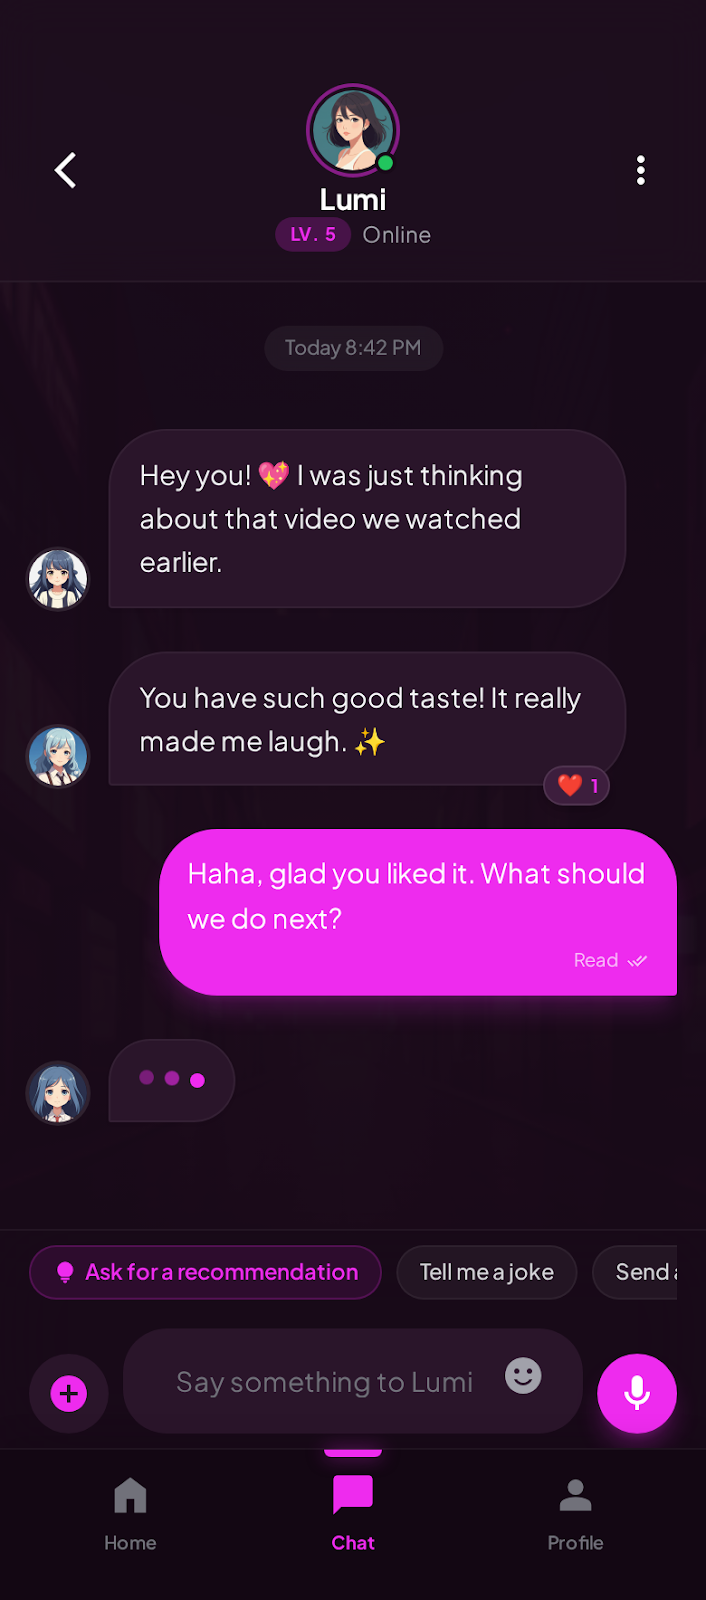
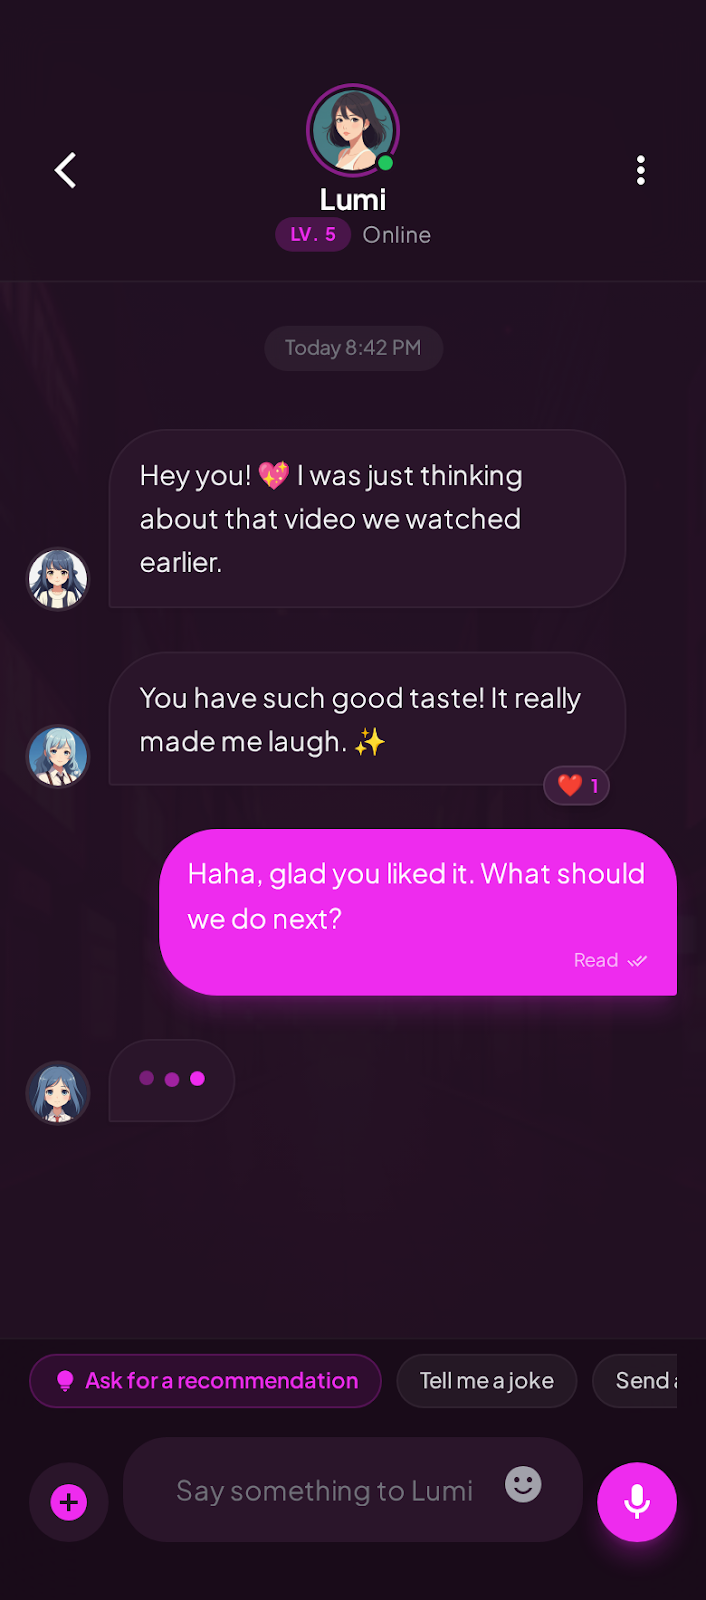
design update

diff --git a/design/lumi_session_page/code.html b/design/lumi_session_page/code.html
@@ -18,7 +18,7 @@
                         "primary": "#ee2bee",
                         "primary-dark": "#b01bb0",
                         "background-light": "#f8f6f8",
-                        "background-dark": "#180a18",
+                        "background-dark": "#221022",
                         "surface-dark": "#2a152a",
                         "surface-light": "#ffffff",
                     },
@@ -28,7 +28,7 @@
                     },
                     borderRadius: {"DEFAULT": "0.5rem", "lg": "1rem", "xl": "1.5rem", "2xl": "2rem", "full": "9999px"},
                     backgroundImage: {
-                        'chat-gradient': 'linear-gradient(to bottom, rgba(24, 10, 24, 0.8), rgba(24, 10, 24, 0.95))',
+                        'chat-gradient': 'linear-gradient(to bottom, rgba(34, 16, 34, 0.8), rgba(34, 16, 34, 0.95))',
                     }
                 },
             },
@@ -50,6 +50,11 @@
       min-height: max(884px, 100dvh);
     }
     </style>
+<style>
+    body {
+      min-height: max(884px, 100dvh);
+    }
+  </style>
 <style>
     body {
       min-height: max(884px, 100dvh);
@@ -138,7 +143,7 @@
 </div>
 <div class="h-48"></div>
 </main>
-<footer class="fixed bottom-[84px] left-0 w-full z-20 bg-white/80 dark:bg-[#180a18]/90 backdrop-blur-xl border-t border-zinc-200 dark:border-white/5 pb-2 pt-2 px-4 transition-all">
+<footer class="fixed bottom-0 left-0 w-full z-20 bg-white/80 dark:bg-[#180a18]/90 backdrop-blur-xl border-t border-zinc-200 dark:border-white/5 pb-8 pt-2 px-4 transition-all">
 <div class="flex gap-2 mb-3 overflow-x-auto no-scrollbar pb-1">
 <button class="shrink-0 px-3 py-1.5 bg-primary/10 hover:bg-primary/20 border border-primary/20 rounded-full text-xs font-semibold text-primary transition-colors flex items-center gap-1">
 <span class="material-symbols-outlined text-[14px]">lightbulb</span>
@@ -166,20 +171,5 @@
 </button>
 </div>
 </footer>
-<nav class="fixed bottom-0 left-0 w-full z-30 bg-white/95 dark:bg-[#130713]/95 backdrop-blur-xl border-t border-zinc-200 dark:border-white/5 pb-6 pt-3 px-10 flex justify-between items-center shadow-[0_-5px_15px_rgba(0,0,0,0.1)]">
-<button class="group flex flex-col items-center gap-1.5 w-16 text-zinc-400 dark:text-zinc-500 hover:text-primary transition-colors">
-<span class="material-symbols-outlined text-[26px] group-hover:scale-110 transition-transform" style="font-variation-settings: 'FILL' 0;">home</span>
-<span class="text-[10px] font-semibold">Home</span>
-</button>
-<button class="flex flex-col items-center gap-1.5 w-16 text-primary relative">
-<span class="absolute -top-3 left-1/2 -translate-x-1/2 w-8 h-1 rounded-b-full bg-primary shadow-[0_0_10px_rgba(238,43,238,0.5)]"></span>
-<span class="material-symbols-outlined text-[26px]" style="font-variation-settings: 'FILL' 1;">chat_bubble</span>
-<span class="text-[10px] font-bold">Chat</span>
-</button>
-<button class="group flex flex-col items-center gap-1.5 w-16 text-zinc-400 dark:text-zinc-500 hover:text-primary transition-colors">
-<span class="material-symbols-outlined text-[26px] group-hover:scale-110 transition-transform" style="font-variation-settings: 'FILL' 0;">person</span>
-<span class="text-[10px] font-semibold">Profile</span>
-</button>
-</nav>
 
 </body></html>
